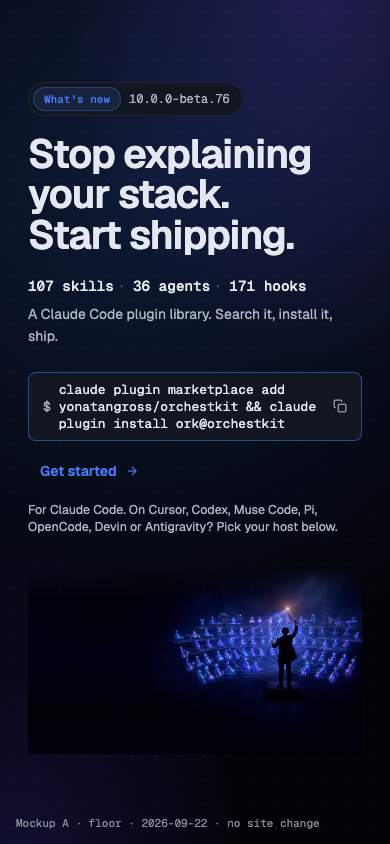
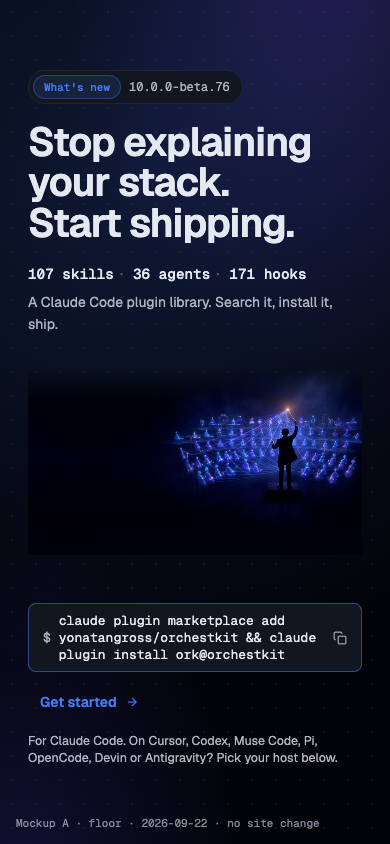
docs(site): re-approve hero A mockup mobile order (art above install)

diff --git a/docs/site/approved-design/hero-a-2026-09-22.html b/docs/site/approved-design/hero-a-2026-09-22.html
@@ -215,29 +215,34 @@
   }
   @media (max-width: 900px) {
     .hero-inner {
+      display: flex;
+      flex-direction: column;
       grid-template-columns: 1fr;
       padding-top: 48px;
       padding-bottom: 56px;
     }
+    /* Match live build: headline/counts, then 16:9 art, then install. */
+    .copy {
+      display: contents;
+      max-width: none;
+    }
+    .copy-top {
+      order: 1;
+    }
     .art {
       position: relative;
+      order: 2;
       width: 100%;
       height: auto;
       aspect-ratio: 16 / 9;
       inset: auto;
       margin-top: 8px;
-      order: 2;
       -webkit-mask-image: linear-gradient(to bottom, transparent 0%, #000 18%);
       mask-image: linear-gradient(to bottom, transparent 0%, #000 18%);
       background-position: center 30%;
     }
-    .copy {
-      order: 1;
-      max-width: none;
-    }
-    .hero-inner {
-      display: flex;
-      flex-direction: column;
+    .copy-actions {
+      order: 3;
     }
   }
 </style>
@@ -246,33 +251,37 @@
   <section class="hero" aria-labelledby="hero-heading">
     <div class="hero-inner">
       <div class="copy">
-        <div class="eyebrow" aria-hidden="true">
-          <span class="pill">What&apos;s new</span>
-          <span>10.0.0-beta.76</span>
+        <div class="copy-top">
+          <div class="eyebrow" aria-hidden="true">
+            <span class="pill">What&apos;s new</span>
+            <span>10.0.0-beta.76</span>
+          </div>
+          <h1 id="hero-heading">
+            <span class="sr-only" style="position:absolute;width:1px;height:1px;overflow:hidden;clip:rect(0,0,0,0)">OrchestKit. </span>
+            Stop explaining your stack.<br />
+            Start shipping.
+          </h1>
+          <p class="counts">
+            <span class="stat">107 skills</span><span class="dot">·</span>
+            <span class="stat">36 agents</span><span class="dot">·</span>
+            <span class="stat">171 hooks</span>
+            <span class="sub">A Claude Code plugin library. Search it, install it, ship.</span>
+          </p>
         </div>
-        <h1 id="hero-heading">
-          <span class="sr-only" style="position:absolute;width:1px;height:1px;overflow:hidden;clip:rect(0,0,0,0)">OrchestKit. </span>
-          Stop explaining your stack.<br />
-          Start shipping.
-        </h1>
-        <p class="counts">
-          <span class="stat">107 skills</span><span class="dot">·</span>
-          <span class="stat">36 agents</span><span class="dot">·</span>
-          <span class="stat">171 hooks</span>
-          <span class="sub">A Claude Code plugin library. Search it, install it, ship.</span>
-        </p>
-        <div class="actions">
-          <button type="button" class="install" id="install-btn" aria-label="Copy claude plugin marketplace add yonatangross/orchestkit &amp;&amp; claude plugin install ork@orchestkit to clipboard">
-            <span class="prompt">$</span>
-            <span class="cmd">claude plugin marketplace add yonatangross/orchestkit &amp;&amp; claude plugin install ork@orchestkit</span>
-            <svg class="icon" viewBox="0 0 24 24" fill="none" stroke="currentColor" stroke-width="2" aria-hidden="true"><rect x="9" y="9" width="13" height="13" rx="2"/><path d="M5 15H4a2 2 0 0 1-2-2V4a2 2 0 0 1 2-2h9a2 2 0 0 1 2 2v1"/></svg>
-          </button>
-          <a class="get-started" href="https://orchestkit.yonyon.ai/docs/getting-started/first-10-minutes">
-            Get started
-            <svg width="14" height="14" viewBox="0 0 24 24" fill="none" stroke="currentColor" stroke-width="2" aria-hidden="true"><path d="M5 12h14"/><path d="m12 5 7 7-7 7"/></svg>
-          </a>
+        <div class="copy-actions">
+          <div class="actions">
+            <button type="button" class="install" id="install-btn" aria-label="Copy claude plugin marketplace add yonatangross/orchestkit &amp;&amp; claude plugin install ork@orchestkit to clipboard">
+              <span class="prompt">$</span>
+              <span class="cmd">claude plugin marketplace add yonatangross/orchestkit &amp;&amp; claude plugin install ork@orchestkit</span>
+              <svg class="icon" viewBox="0 0 24 24" fill="none" stroke="currentColor" stroke-width="2" aria-hidden="true"><rect x="9" y="9" width="13" height="13" rx="2"/><path d="M5 15H4a2 2 0 0 1-2-2V4a2 2 0 0 1 2-2h9a2 2 0 0 1 2 2v1"/></svg>
+            </button>
+            <a class="get-started" href="https://orchestkit.yonyon.ai/docs/getting-started/first-10-minutes">
+              Get started
+              <svg width="14" height="14" viewBox="0 0 24 24" fill="none" stroke="currentColor" stroke-width="2" aria-hidden="true"><path d="M5 12h14"/><path d="m12 5 7 7-7 7"/></svg>
+            </a>
+          </div>
+          <p class="host-note">For Claude Code. On Cursor, Codex, Muse Code, Pi, OpenCode, Devin or Antigravity? Pick your host below.</p>
         </div>
-        <p class="host-note">For Claude Code. On Cursor, Codex, Muse Code, Pi, OpenCode, Devin or Antigravity? Pick your host below.</p>
       </div>
       <div class="art" role="img" aria-label="Conductor and holographic orchestra art from design/og-card/art/A-1.png"></div>
     </div>
